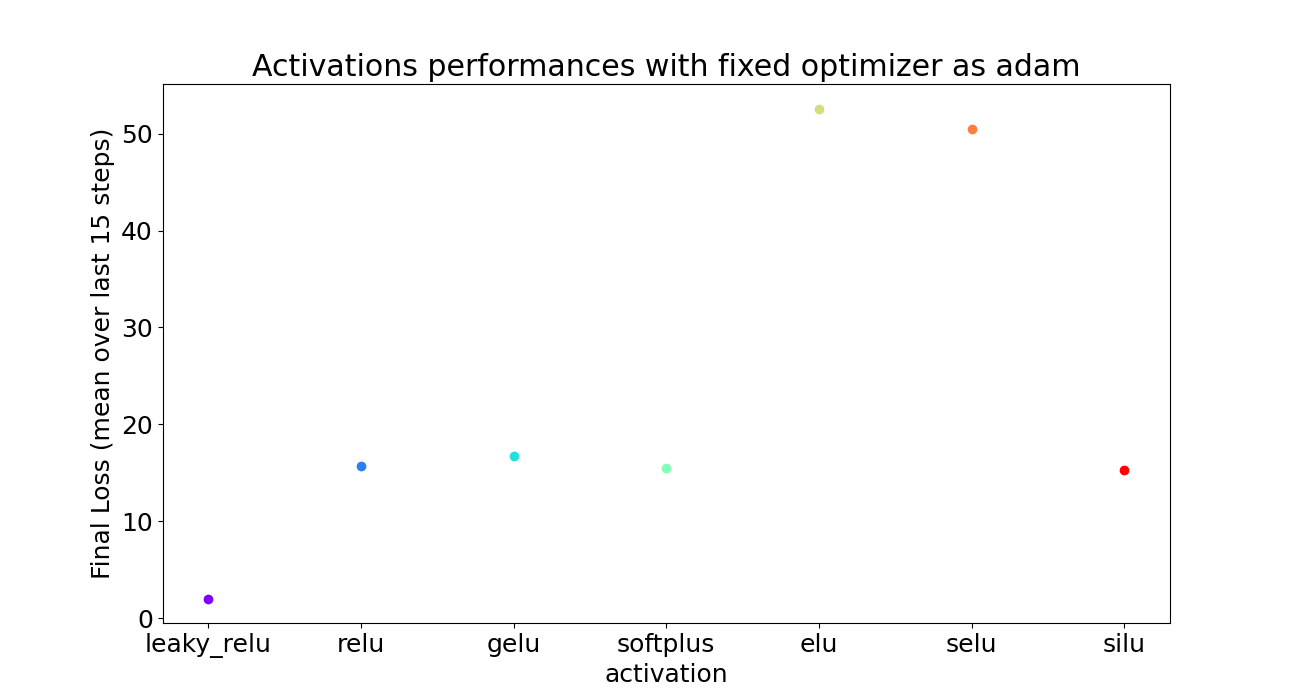
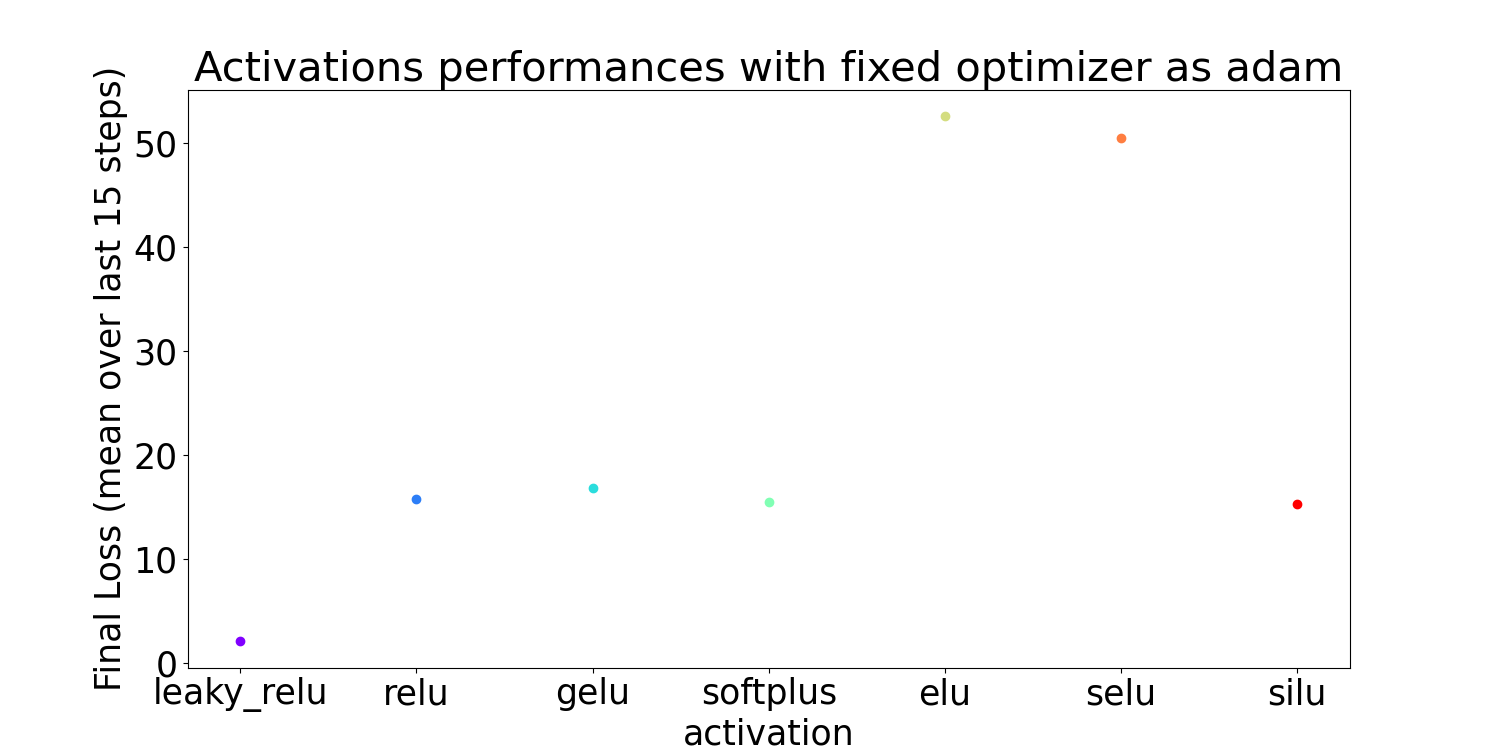
.

diff --git a/project/plot.py b/project/plot.py
@@ -13,7 +13,7 @@ from scipy.interpolate import UnivariateSpline
 from tqdm import tqdm 
 import ast
 
-plt.rcParams.update({'font.size': 18})
+plt.rcParams.update({'font.size': 25})
 
 
 ##########
@@ -21,7 +21,7 @@ plt.rcParams.update({'font.size': 18})
 
 save_dir = os.path.join(os.getcwd(), "Graphs")  
 
-optimizers=['adam','nadam','rmsprop','adagrad','adadelta','ftrl','adamax','adamw','lion']
+optimizers=['adam','nadam','rmsprop','adagrad','adadelta','ftrl','adamax','lion']
 activations=['leaky_relu','relu','gelu','softplus','elu','selu','silu']
 
 # activations (fixed adam)
@@ -39,7 +39,7 @@ title=f'Activations performances with fixed optimizer as {optimizer}'
 
 file=f'results-{optimizer}-{hyperparameters['latent_dim']}.csv'
 
-fig = plt.figure(figsize=(13,7))
+fig = plt.figure(figsize=(15,7.5))
 
 data=pd.read_csv(file)
 '''
@@ -67,7 +67,7 @@ title=f'Optimizers performances with fixed optimizer as {activation}'
 
 file=f'results-{activation}-{hyperparameters['latent_dim']}.csv'
 
-fig = plt.figure(figsize=(13,7))
+fig = plt.figure(figsize=(15,7.5))
 
 data=pd.read_csv(file)
 '''
